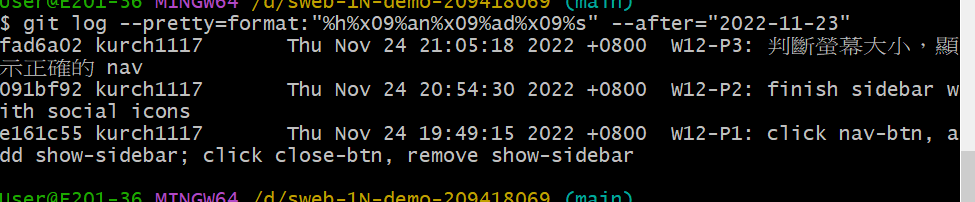
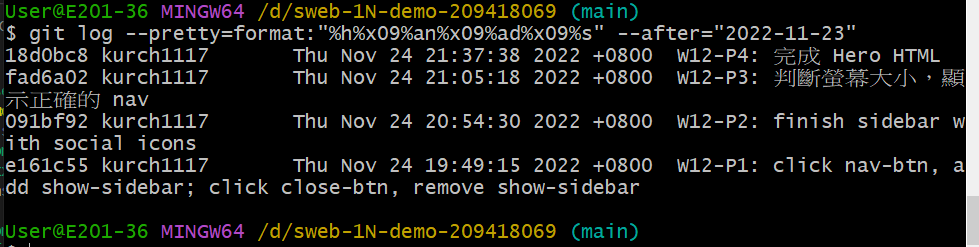
W12-P5:log

diff --git a/demo/md/w12_69/w12_69.md b/demo/md/w12_69/w12_69.md
@@ -16,13 +16,23 @@
 
 ![](w12-p3-2.png)
 
+### W12-P4: 完成 Hero HTML
+
+![](w12-p4.png)
+
+
+
+### W12-P5: git log
+
 ![](w12-log.png)
 
 ```
  $ git log --pretty=format:"%h%x09%an%x09%ad%x09%s" --after="2022-11-23"
+18d0bc8 kurch1117       Thu Nov 24 21:37:38 2022 +0800  W12-P4: 完成 Hero HTML
 fad6a02 kurch1117       Thu Nov 24 21:05:18 2022 +0800  W12-P3: 判斷螢幕大小，顯示正確的 nav
 091bf92 kurch1117       Thu Nov 24 20:54:30 2022 +0800  W12-P2: finish sidebar with social icons
 e161c55 kurch1117       Thu Nov 24 19:49:15 2022 +0800  W12-P1: click nav-btn, add show-sidebar; click close-btn, remove show-sidebar
+
 
 
 ```
